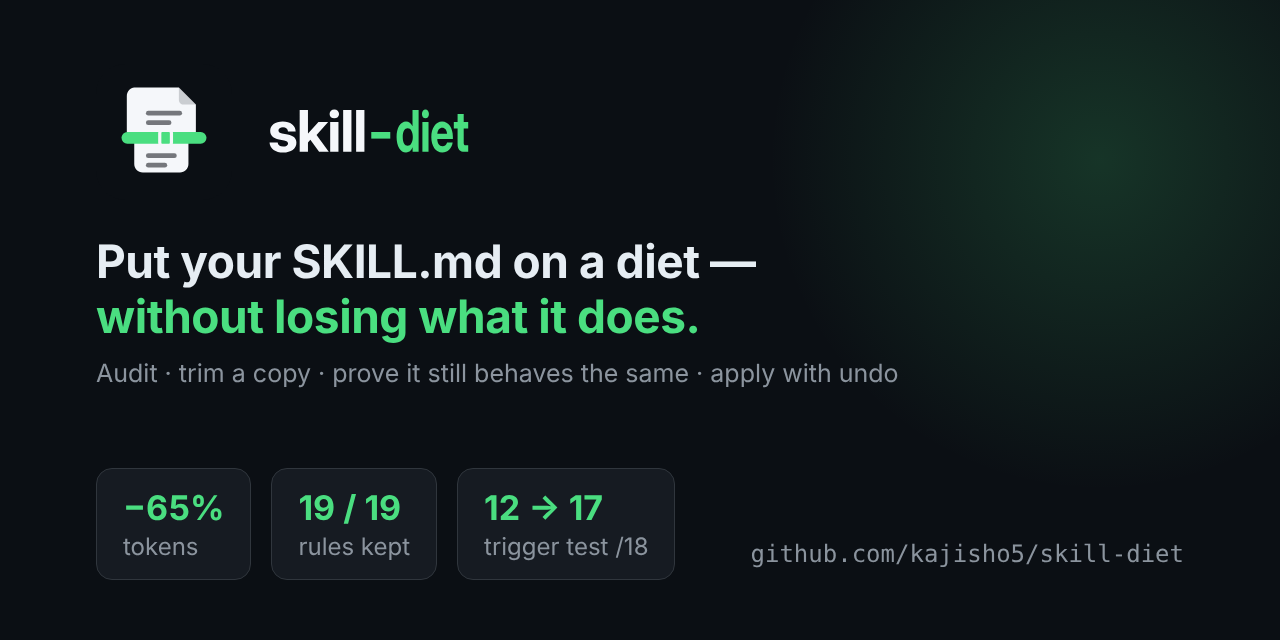
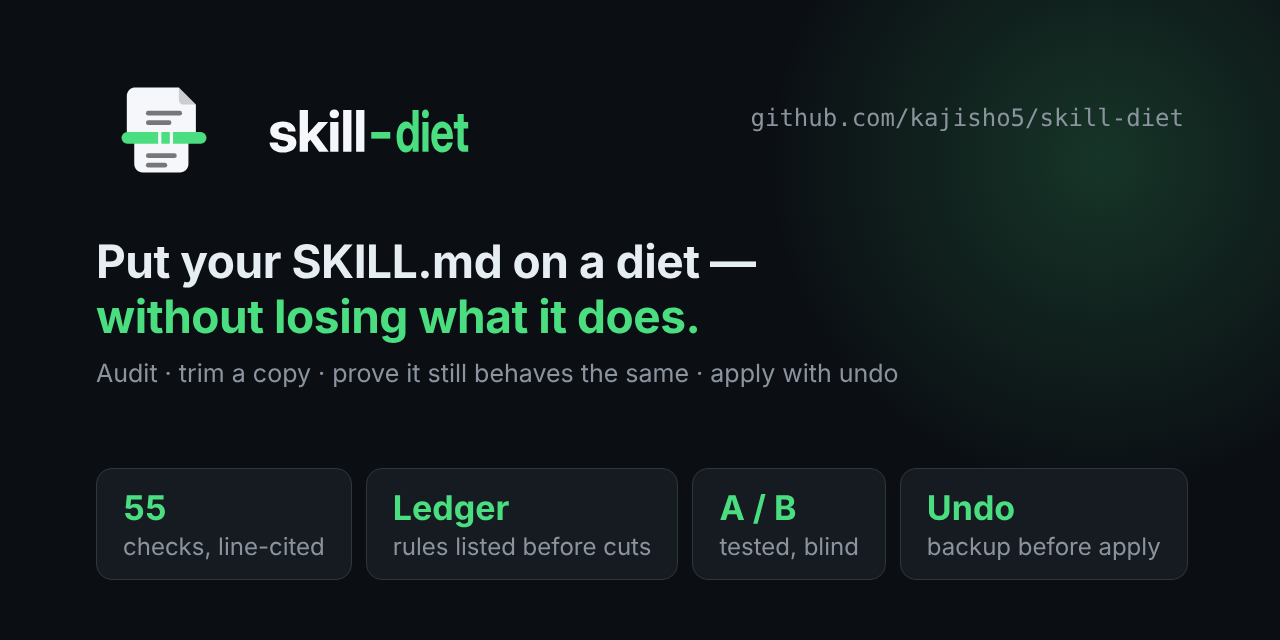
Social preview: lead with how it checks, not the sample's token cut
The -65% figure came from a deliberately bloated fictional sample and
read as a typical result without that context.

Claude-Session: https://claude.ai/code/session_01No2uXkHzWcv5y2mS1FtFtS

diff --git a/brand/social.html b/brand/social.html
@@ -9,14 +9,14 @@ body{width:1280px;height:640px;background:#0B0F14;font-family:'Inter','Inter Dis
 .tag{margin-top:34px;font-size:46px;font-weight:700;letter-spacing:-.01em;line-height:1.2}
 .tag span{color:#4ADE80}
 .sub{margin-top:14px;font-size:25px;color:#8B949E}
-.stats{position:absolute;left:96px;bottom:60px;display:flex;gap:20px}
+.stats{position:absolute;left:96px;bottom:60px;display:flex;gap:14px}
 .s{background:#161B22;border:1px solid #30363D;border-radius:16px;padding:18px 26px;font-size:24px;color:#8B949E}
 .s b{display:block;font-size:34px;color:#4ADE80;margin-bottom:4px}
-.url{position:absolute;right:96px;bottom:72px;font-size:24px;color:#8B949E;font-family:ui-monospace,'DejaVu Sans Mono',monospace}
+.url{position:absolute;right:96px;top:104px;font-size:24px;color:#8B949E;font-family:ui-monospace,'DejaVu Sans Mono',monospace}
 </style></head><body><div class="glow"></div>
 <div class="wrap"><div class="row"><img class="icon" src="icon-dark.svg"><img class="wm" src="wordmark-white.svg"></div>
 <div class="tag">Put your SKILL.md on a diet —<br><span>without losing what it does.</span></div>
 <div class="sub">Audit · trim a copy · prove it still behaves the same · apply with undo</div></div>
-<div class="stats"><div class="s"><b>−65%</b>tokens</div><div class="s"><b>19 / 19</b>rules kept</div><div class="s"><b>12 → 17</b>trigger test /18</div></div>
+<div class="stats"><div class="s"><b>55</b>checks, line-cited</div><div class="s"><b>Ledger</b>rules listed before cuts</div><div class="s"><b>A / B</b>tested, blind</div><div class="s"><b>Undo</b>backup before apply</div></div>
 <div class="url">github.com/kajisho5/skill-diet</div>
 </body></html>
